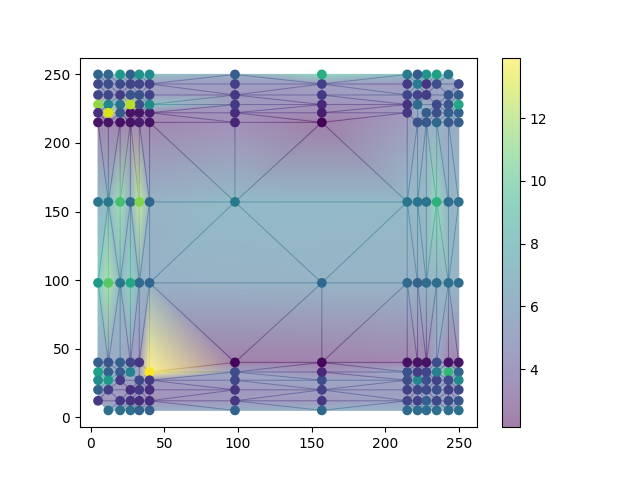
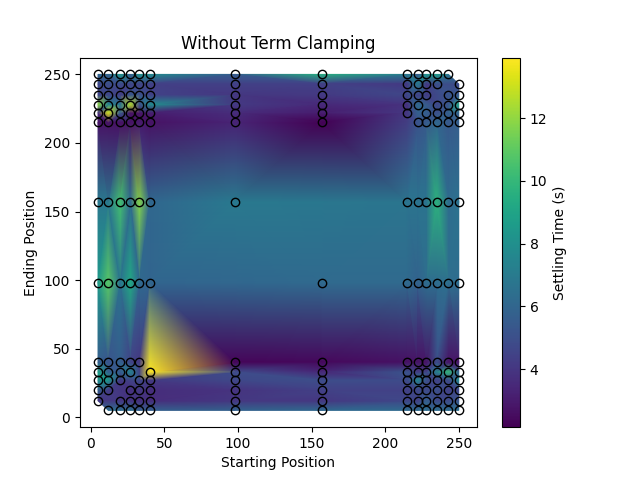
PlotExperimentResults - Determine Plot Formatting

diff --git a/Code/Experimentation/PlotExperimentResults.py b/Code/Experimentation/PlotExperimentResults.py
@@ -2,6 +2,8 @@
 # Utility
 from collections import deque
 import math
+import matplotlib.axes
+import matplotlib.figure
 import numpy as np
 import random
 import matplotlib.pyplot as plt
@@ -40,16 +42,16 @@ def AverageResults(listOfExperimentLogs):
 	into one log
 	"""
 
+	# Extract values into variables so the code is more legible
 	numberOfLogs = len(listOfExperimentLogs[0])
 	numberOfLists = len(listOfExperimentLogs)
 
-	print(f"Number of Logs: {numberOfLogs} | Number of Lists: {numberOfLists}")
+	# print(f"Number of Logs: {numberOfLogs} | Number of Lists: {numberOfLists}")
 
 	listOfAverages: List[dict] = []
 
 	for i in range(0, numberOfLogs):
-	# for i in range(0, 20):
-		# Access every index that the logs should be in
+		# For each log index
 
 		# Reset currentAverageDictionary
 		currentAverageDictionary = dict()
@@ -65,21 +67,16 @@ def AverageResults(listOfExperimentLogs):
 		timeValues = []
 		overshootValues = []
 
+		# Average all logs at i
 		for experimentNum in range(0, numberOfLists):
-			# Access the log at i for each experiment list
-			
+			# For each log at i from each experiment
 			currentList = listOfExperimentLogs[experimentNum]
-			# print(f"There are {len(currentList)} entries")
-			# print(f"First Entry: {currentList[0]}")
-
 			currentLog = currentList[i]
-			print(f"Current Log: {currentLog}")
-
 			
 			# Verify that all experiments have the same starting point
 			if (currentStartSetpoint is None):
 				currentStartSetpoint = currentLog["startSetpoint"]
-				print(f"Started at {currentStartSetpoint}")
+				# print(f"Started at {currentStartSetpoint}")
 				startSetpointMatches = True
 			elif (currentLog["startSetpoint"] == currentStartSetpoint):
 				# Does this match the other logs at this index?
@@ -92,7 +89,7 @@ def AverageResults(listOfExperimentLogs):
 			# Verify that all experiments have the same ending point
 			if (currentEndSetpoint is None):
 				currentEndSetpoint = currentLog["endSetpoint"]
-				print(f"Ended at {currentEndSetpoint}")
+				# print(f"Ended at {currentEndSetpoint}")
 				endSetpointMatches = True
 			elif (currentLog["endSetpoint"] == currentEndSetpoint):
 				# Does this match the other logs at this index?
@@ -102,41 +99,39 @@ def AverageResults(listOfExperimentLogs):
 				endSetpointMatches = False
 			#
 			
-			# Vetting Complete, save values
+			# Save the values from the current log
 			timeValues.append(currentLog["time"])
 			overshootValues.append(currentLog["overshoot"])
 		# 
 		
 		# Data has been collected, compute the average
-		
 		if startSetpointMatches and endSetpointMatches:
+			# If all logs start and end at the same spot
+			
 			# Average the data
-			print(f"Time: {timeValues}")
-			print(f"Overshoot: {overshootValues}")
-
 			averageTime = np.mean(timeValues)
 			averageOvershoot = np.mean(overshootValues)
 
-			print(f"Average Time: {averageTime: 6.2f} | Average Overshoot: {averageOvershoot: 6.2f}")
+			# print(f"Time: {timeValues}")
+			# print(f"Overshoot: {overshootValues}")
+			# print(f"Average Time: {averageTime: 6.2f} | Average Overshoot: {averageOvershoot: 6.2f}")
 
-			# Create and Save Dictonary Entry
+			# Save Results to currentAverageDictionary
 			currentAverageDictionary["channel"] = currentLog["channel"]
 			currentAverageDictionary["startSetpoint"] = currentLog["startSetpoint"]
 			currentAverageDictionary["endSetpoint"] = currentLog["endSetpoint"]
 			currentAverageDictionary["time"] = averageTime
 			currentAverageDictionary["overshoot"] = averageOvershoot
 			
-			print(f"Averaged Entry: {currentAverageDictionary}")
-
 			listOfAverages.append(currentAverageDictionary)
 			
-			# print(f"Current List: {listOfAverages}")
+			# print(f"Averaged Entry: {currentAverageDictionary}")
 		else:
+			# Something went wrong, complain
 			print(f"I GIVE UP!!!")
+			break
 		# 
 	# 
-
-	# print(f"Returning: {listOfAverages}")
 
 	return listOfAverages
 # 
@@ -164,7 +159,15 @@ def ConvertLogsToLists(listOfLogs: List[dict]):
 	return startPoints, endPoints, settlingTime, overshoot
 # 
 
-# ----- Utility Classes -----
+# ----- Plotting Functions -----
+def CreateAlphaBlendedCmap(alpha):
+	# Code from here: https://stackoverflow.com/questions/53565797/how-to-remove-edge-lines-from-tripcolor-plot-with-alpha-0
+	cls = plt.get_cmap()(np.linspace(0,1,256))
+	cls = (1-alpha) + alpha*cls
+	cmap = matplotlib.colors.ListedColormap(cls)
+
+	return cmap
+# 
 
 # ----- Begin Program -----
 if __name__ == "__main__":
@@ -178,40 +181,34 @@ if __name__ == "__main__":
 	# --- Loading Results ---
 	# Experimenting
 	folder = defaultFolderPath
-	title = "No I Term Clamping"
-	# title = "I Term Clamping Upon Initialization"
+	title = "Without Term Clamping"
+	
+	# folder = clampedFolderPath
+	# title = "With I Term Clamping"
 
 	experimentResults: List[dict] = []
 
+	# Loading each file and extracting the results
 	for name in os.listdir(folder):
 		with open(os.path.join(folder, name)) as currentFile:
-			print(f"Filename: '{name}'")
-
 			currentDictionary = dict()
 			currentDictionary:dict = json.load(currentFile)
 			currentFile.close()
 
-			print(f"Dictionary: {currentDictionary.keys()}")
+			# print(f"Filename: '{name}'")
+			# print(f"Dictionary: {currentDictionary.keys()}")
 
 			experimentResults.append(currentDictionary)
 		# 
 	# 
 
 	# --- Filtering Results ---
-
-	# knob0Logs = currentDictionary["knob0"]
-	# print(f"There are {len(knob0Logs)} logs")
-	# knob0Logs = RemoveStationaryMovements(knob0Logs)
-	# print(f"There are {len(knob0Logs)} logs")
-
-	# Pooling Results
+	# Sorting Results by Knob
 	knob0Logs = []
 	knob1Logs = []
 	for i in range(0, len(experimentResults)):
 		knob0Logs.append(experimentResults[i]["knob0"])
 		knob1Logs.append(experimentResults[i]["knob1"])
-		print(f"Knob0 List Length: {len(knob0Logs)}")
-		print(f"Knob1 List Length: {len(knob1Logs)}")
 	# 
 
 	# Removing Identities
@@ -226,30 +223,35 @@ if __name__ == "__main__":
 	# --- Converting To Lists ---
 	startList, endList, settlingTimeList, overshootList = ConvertLogsToLists(knob0Averages)
 
-	for i in range(0, len(startList)):
-		print(f"S: {startList[i]:3} | E: {endList[i]:3} | t: {settlingTimeList[i]:5.2f} | O: {overshootList[i]:5.2f}")
-	# 
+	# Printing out the contents of the list
+	# for i in range(0, len(startList)):
+	# 	# print(f"S: {startList[i]:3} | E: {endList[i]:3} | t: {settlingTimeList[i]:5.2f} | O: {overshootList[i]:5.2f}")
+	# # 
 		
 	# --- Plotting Results ---	
-	
+	# - Creating Figure and Applying Lables -
 	# Create the figure and plot (this command can also do nested plots)
 	fig, ax = plt.subplots()
 
-	# Plot the data
-	print(f"Lengths: S: {len(startList)} | E: {len(endList)} | t: {len(settlingTimeList)} | O: {len(overshootList)}")
+	ax.set_title(title)
+	ax.set_xlabel("Starting Position")
+	ax.set_ylabel("Ending Position")
 
-	# ax.pcolormesh(startList, endList, settlingTimeList, alpha = 0.5)
-	# ax.pcolormesh([startList, endList], settlingTimeList, alpha=0.5)
+	# - Plotting the Data -
+	# Blending the alpha values so there isn't such nasty overlap
+	cmap = CreateAlphaBlendedCmap(0.75)
 
-	# Coloring the background
+	# Applying Background Shading
 	trpColor = ax.tripcolor(startList, endList, settlingTimeList,\
-						shading='gouraud', alpha=0.5)
-	fig.colorbar(trpColor) # Adding the color-bar to the figure
+						shading='gouraud')
+	fig.colorbar(trpColor, label = "Settling Time (s)") # Adding the color-bar to the figure
 	
-	# ax.scatter(startList, endList, c=settlingTimeList, s=overshootList)
-	ax.scatter(startList, endList, c=settlingTimeList)
+	# Plotting Data Points
+	# ax.scatter(startList, endList, c=settlingTimeList, marker=".")
+	# ax.scatter(startList, endList, marker="o")
+	ax.plot(startList, endList, linewidth=0, marker="o", color="k", fillstyle="none")
 
+	# - Saving the Figure -
 	figureName = "experimentResults"
-	# plt.show()
 	plt.savefig(figureName)
 # 
